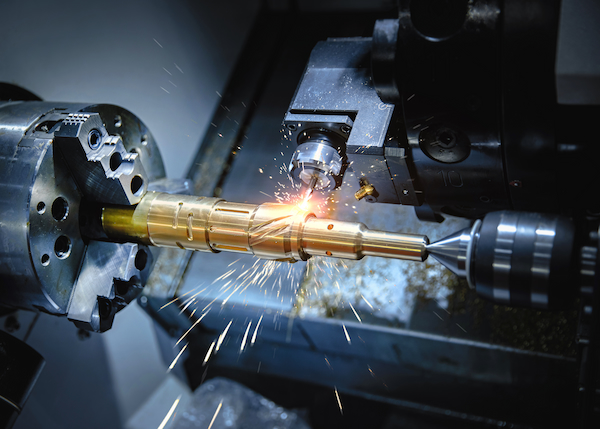
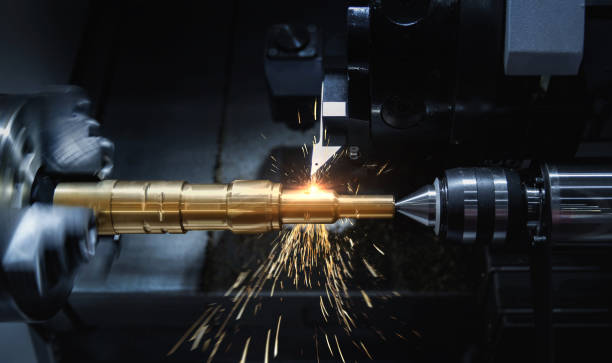
Update project with latest changes

diff --git a/about.html b/about.html
@@ -94,7 +94,11 @@
   <div class="container">
     <div class="section-title fade-up"><span class="pretitle">Our Journey</span><h2>Milestones &amp; Achievements</h2></div>
     <div class="timeline">
-      <div class="tl-item fade-up"><span class="year">2004</span><h5>Foundation Laid</h5><p>Established as a small precision turning workshop with a vision for quality.</p></div><div class="tl-item fade-up"><span class="year">2009</span><h5>First CNC Installation</h5><p>Moved into full CNC operations to handle complex industrial work.</p></div><div class="tl-item fade-up"><span class="year">2014</span><h5>Facility Expansion</h5><p>Doubled shop-floor area; added milling and grinding capabilities.</p></div><div class="tl-item fade-up"><span class="year">2019</span><h5>Quality Systems</h5><p>Introduced documented QA protocols and inspection traceability.</p></div><div class="tl-item fade-up"><span class="year">2023</span><h5>Capacity Boost</h5><p>Added new CNC centres to support growing client demand across India.</p></div>
+      <div class="tl-item fade-up"><span class="year">2022</span><h5>Foundation Laid</h5><p>Established as a small precision turning workshop with a vision for quality.</p></div>
+      <div class="tl-item fade-up"><span class="year">2022</span><h5>First CNC Installation</h5><p>Moved into full CNC operations to handle complex industrial work.</p></div>
+      <div class="tl-item fade-up"><span class="year">2023</span><h5>Facility Expansion</h5><p>Doubled shop-floor area; added milling and grinding capabilities.</p></div>
+      <div class="tl-item fade-up"><span class="year">2024</span><h5>Quality Systems</h5><p>Introduced documented QA protocols and inspection traceability.</p></div>
+      <div class="tl-item fade-up"><span class="year">2025</span><h5>Capacity Boost</h5><p>Added new CNC centres to support growing client demand across India.</p></div>
     </div>
   </div>
 </section>

diff --git a/contact.html b/contact.html
@@ -42,8 +42,8 @@
     <div class="row g-4">
       <div class="col-lg-3 col-md-6 fade-up"><div class="contact-info-card"><div class="icon"><i class="bi bi-geo-alt-fill"></i></div><h5>Visit Us</h5><p>Shreyas Apartment, Shop No. 2, Sr. No. 79/2, Manik Dangat Industrial Area, Shivane, Pune – 411023.</p></div></div>
       <div class="col-lg-3 col-md-6 fade-up"><div class="contact-info-card"><div class="icon"><i class="bi bi-telephone-fill"></i></div><h5>Call Us</h5><p><a href="tel:+919921672536">+91 99216 72536</a><br><a href="tel:+918975041193">+91 89750 41193</a></p></div></div>
-      <div class="col-lg-3 col-md-6 fade-up"><div class="contact-info-card"><div class="icon"><i class="bi bi-envelope-fill"></i></div><h5>Email Us</h5><p><a href="mailto:info@sraengineering.com">sraengineering22@gmail.com</a></p></div></div>
-      <div class="col-lg-3 col-md-6 fade-up"><div class="contact-info-card"><div class="icon"><i class="bi bi-clock-fill"></i></div><h5>Office Hours</h5><p>Mon – Sat<br>9:00 AM – 7:00 PM</p></div></div>
+      <div class="col-lg-3 col-md-6 fade-up"><div class="contact-info-card"><div class="icon"><i class="bi bi-envelope-fill"></i></div><h5>Email Us</h5><p><a href="mailto:sraengineering22@gmail.com">sraengineering22@gmail.com</a></p></div></div>
+      <div class="col-lg-3 col-md-6 fade-up"><div class="contact-info-card"><div class="icon"><i class="bi bi-clock-fill"></i></div><h5>Office Hours</h5><p>Mon – Sat<br>8:30 AM – 8:30 PM <br> Sunday Closed</p></div></div>
     </div>
   </div>
 </section>

diff --git a/partials/footer.html b/partials/footer.html
@@ -33,13 +33,14 @@
         <ul class="contact-list list-unstyled mb-0">
           <li><i class="bi bi-geo-alt-fill"></i><span>Sr.No.79/2, Nanekar Building, Shed No.3, Dangat Industrial Estate, Shivane, Pune - 411023</span></li>
           <li><i class="bi bi-telephone-fill"></i><a>+91 99216 72536 <br> +91 89750 41193</a></li>
-          <li><i class="bi bi-envelope-fill"></i><a href="mailto:info@sraengineering.com">sraengineering22@gmail.com</a></li>
-          <li><i class="bi bi-clock-fill"></i><span>Mon – Sat: 8:30 AM – 8:30 PM</span></li>
+          <li><i class="bi bi-envelope-fill"></i><a href="mailto:sraengineering22@gmail.com">sraengineering22@gmail.com</a></li>
+          <li><i class="bi bi-clock-fill"></i><span>Mon – Sat: 8:30 AM – 8:30 PM <br>Sunday Closed</span></li>
+        
         </ul>
       </div>
     </div>
     <div class="copy">
-      &copy; <span id="yr"></span> SRA Engineering Works. All Rights Reserved. | Developed by <a href="https://mindaxiss.com/">Mind Axis Innovation Pvt Ltd</a>
+      &copy; <span id="yr"></span> SRA Engineering Works. All Rights Reserved. | Developed by <a href="https://mindaxiss.com/">MindAxiss Innovation Pvt Ltd</a>
     </div>
   </div>
 </footer>
